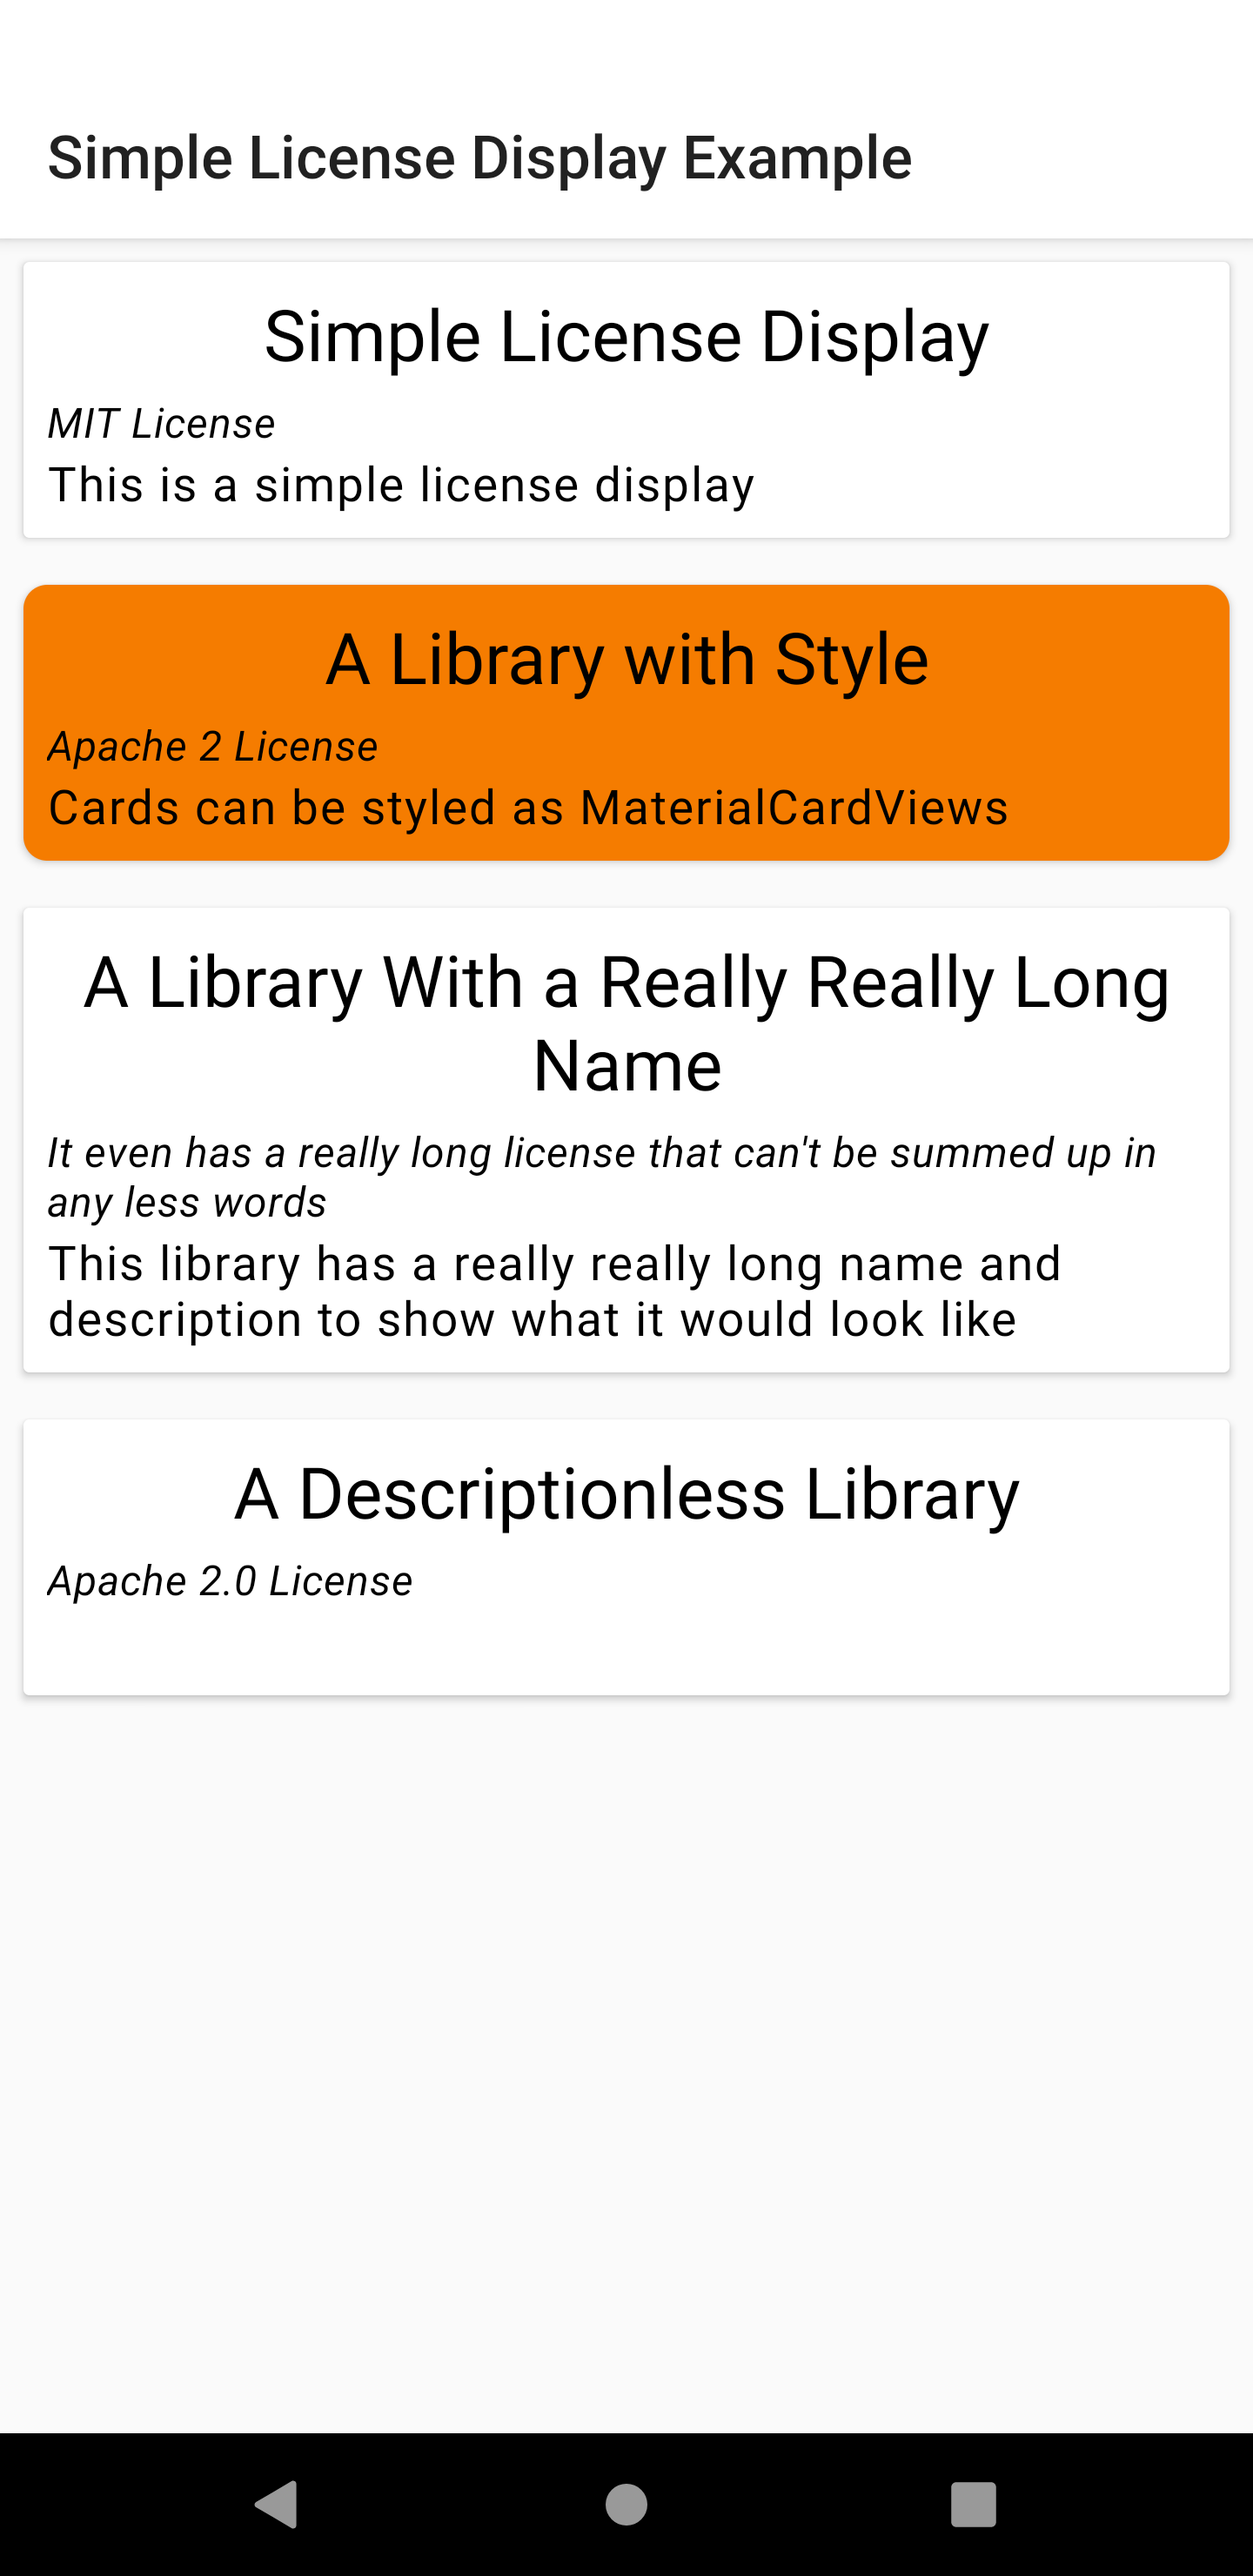
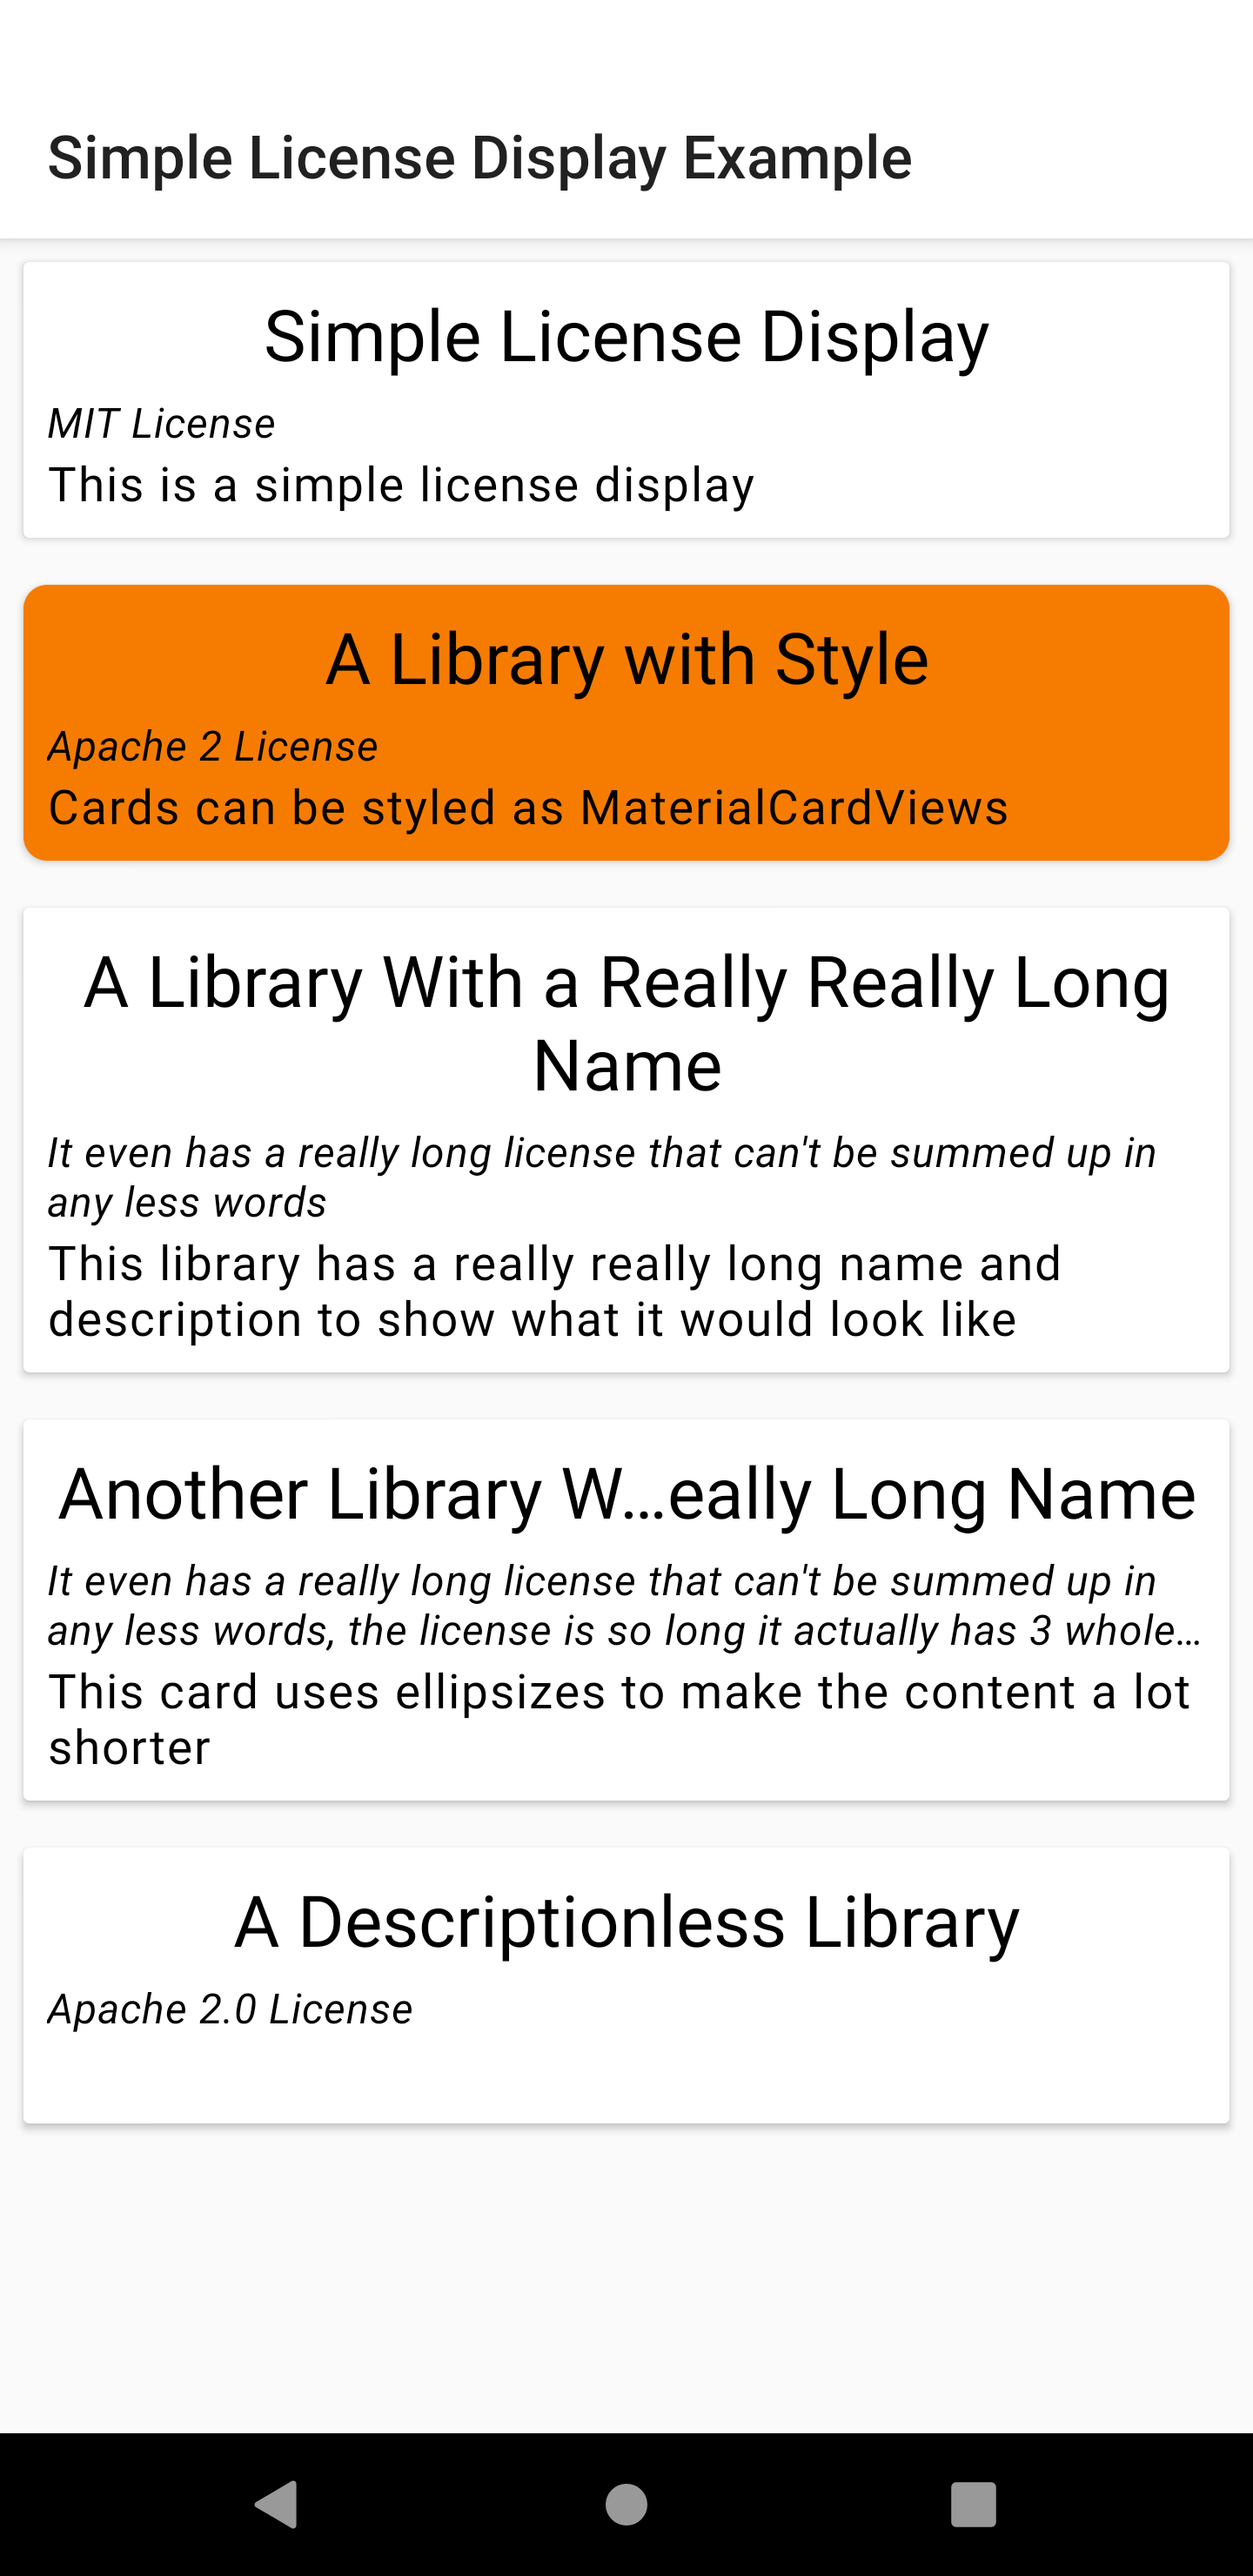
Update readme with ellipsize and max lines documentation

diff --git a/README.md b/README.md
@@ -1,14 +1,22 @@
 # Simple License Display
 A very simple card view for displaying open source library license information
 
+<img src=".github/assets/readme-screenshot.png" alt="Screenshot" width="350">
+
 ## How to Use
 ### Styling
 The view is based on the [MaterialCardView](https://material.io/develop/android/components/material-card-view/) and can be styled the same way. 
 
 ### Attributes
 * `sldTitle` - Title of the card, typically the name of the library 
+  * `sldTitleMaxLines` - Max lines the title can span 
+  * `sldTitleEllipsize` - Style for the ellipsize (either `end` or `middle` leaving it unset will show no ellipsize)
 * `sldDescription` - Description section, typically a brief description of where and why the library is used 
+  * `sldDescriptionMaxLines` - Max lines the description can span 
+  * `sldDescriptionEllipsize` - Style for the ellipsize (either `end` or `middle` leaving it unset will show no ellipsize)
 * `sldLicense` - License section, put the shortened name of the license used here (e.g. MIT License, Apache 2.0 License etc...)
+  * `sldLicenseMaxLines` - Max lines the license can span 
+  * `sldLicenseEllipsize` - Style for the ellipsize (either `end` or `middle` leaving it unset will show no ellipsize)
 
 ### Example
 ```xml
@@ -21,9 +29,6 @@ The view is based on the [MaterialCardView](https://material.io/develop/android/
 ```
 
 For more information see the example project.
-
-## Screenshots
-<img src=".github/assets/readme-screenshot.png" alt="Screenshot" width="350">
 
 ## Download
 [Click Here to Go To the Latest Release](https://github.com/MarcDonald/SimpleLicenseDisplay/releases/latest)
